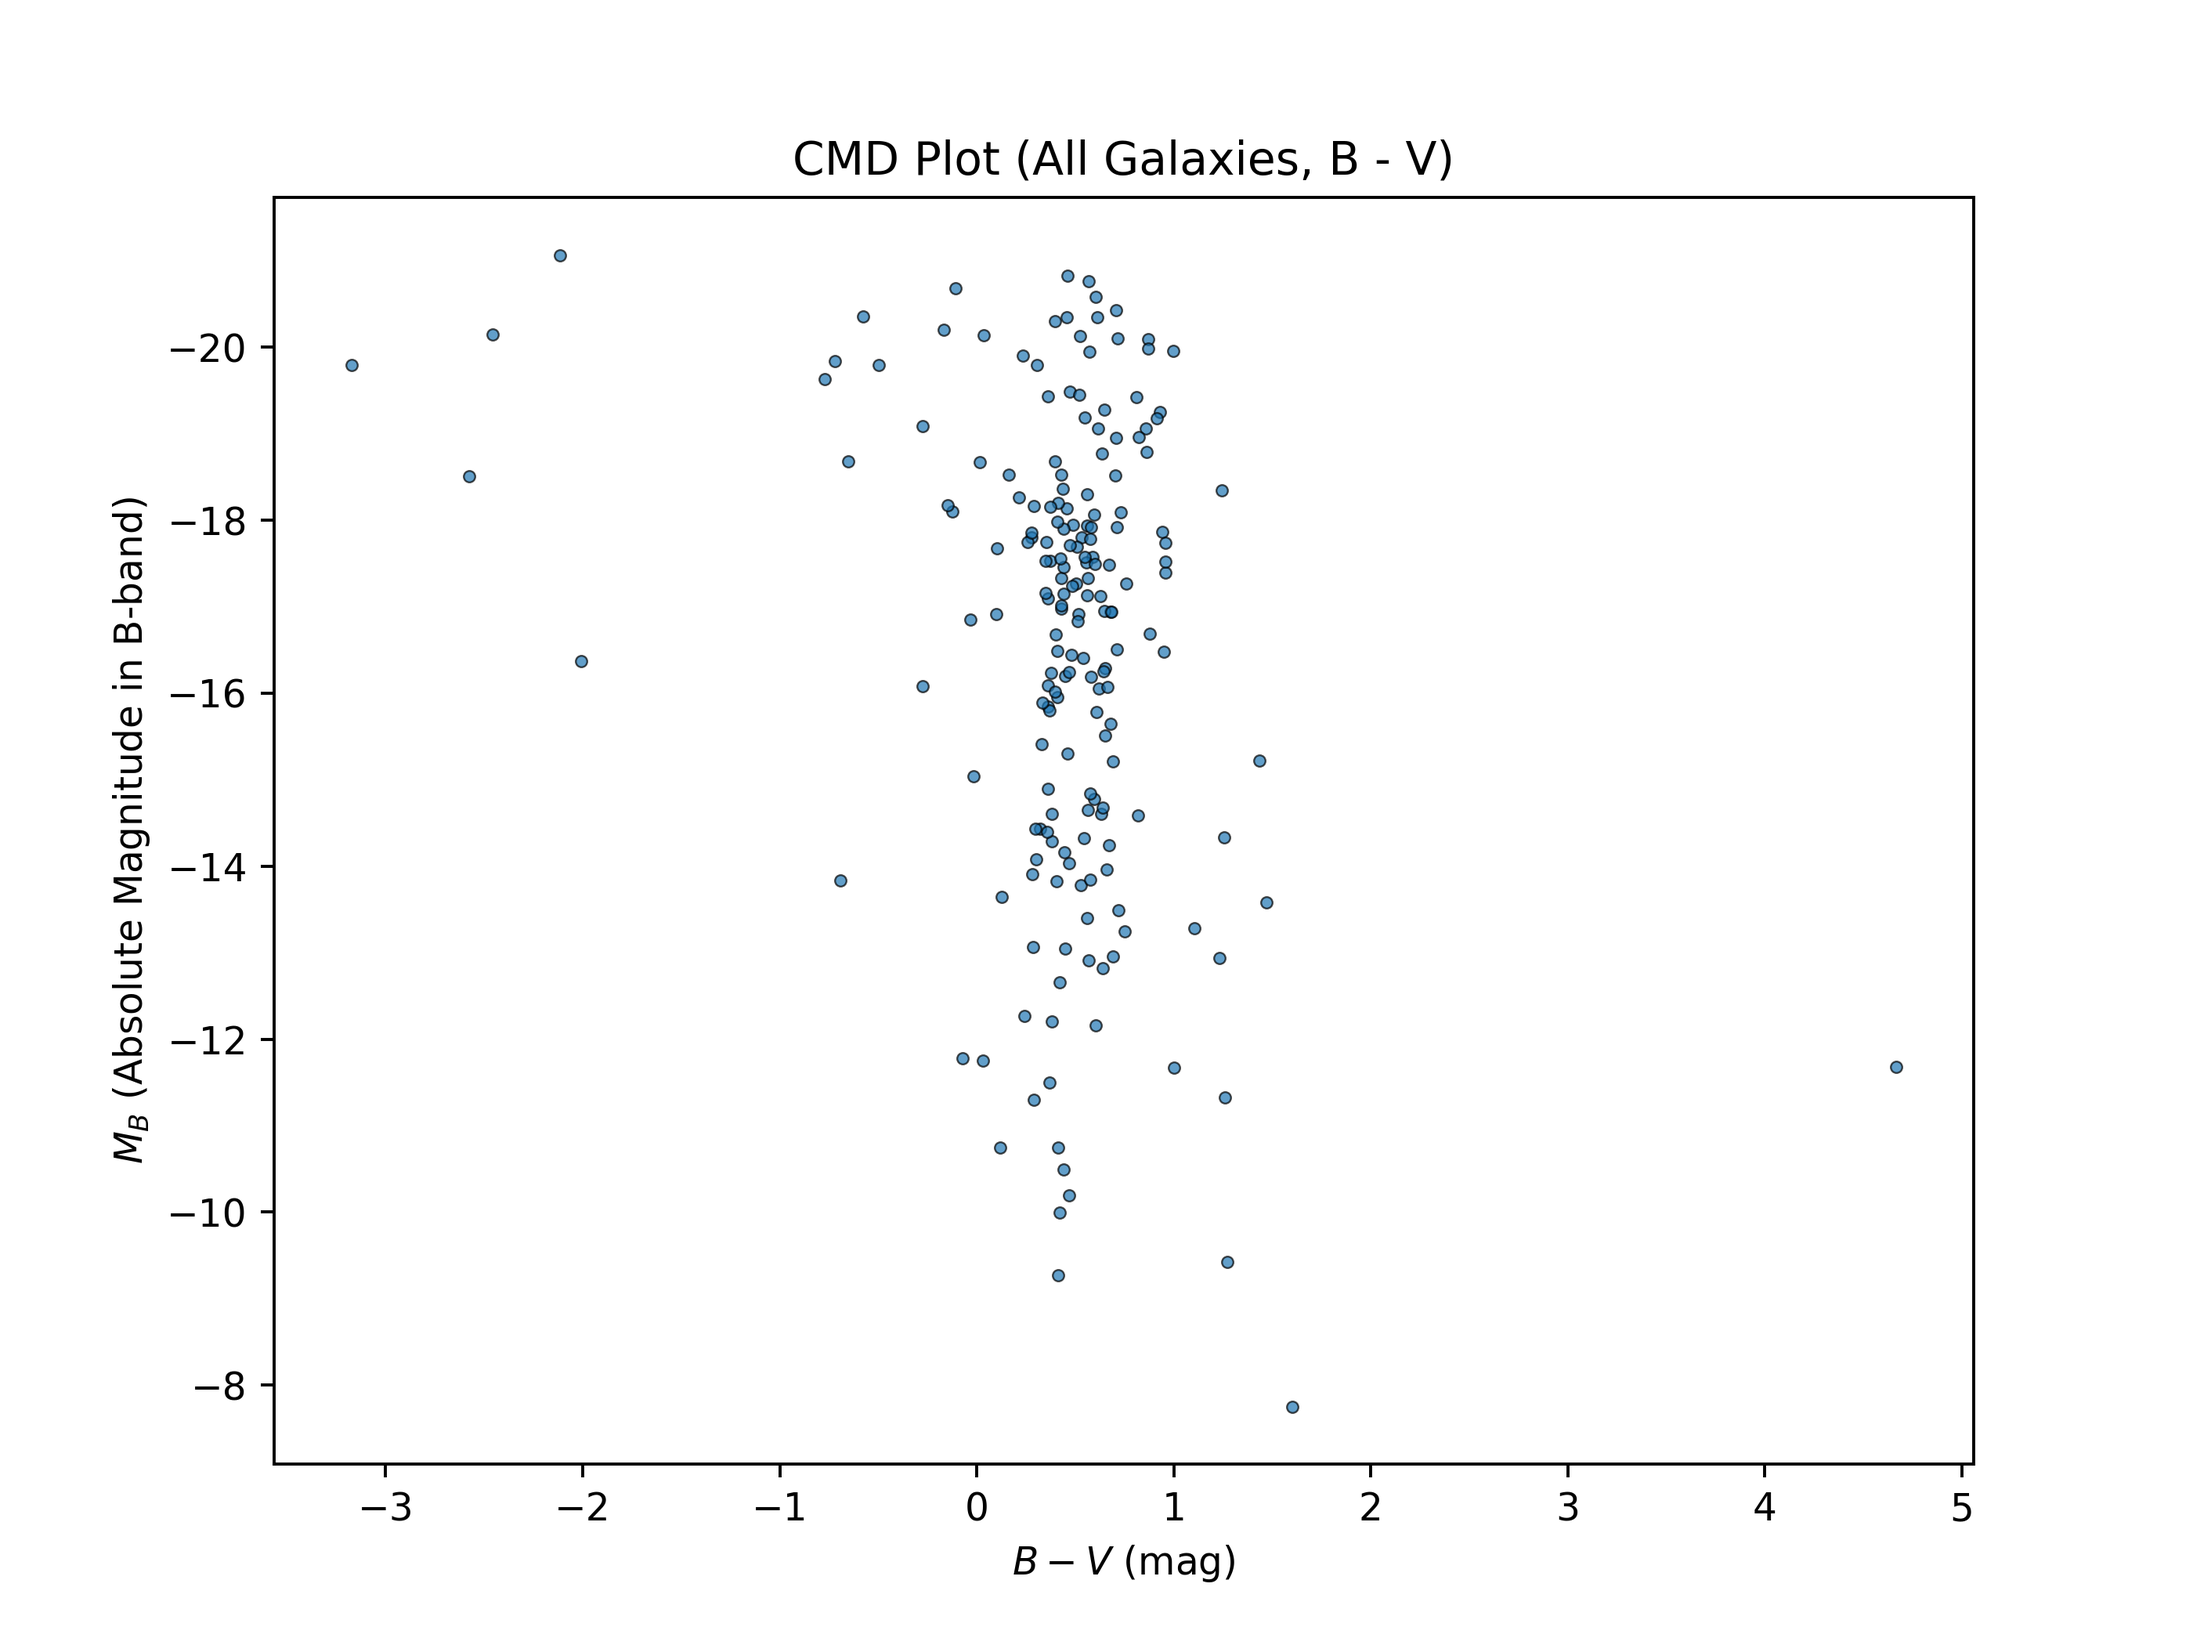
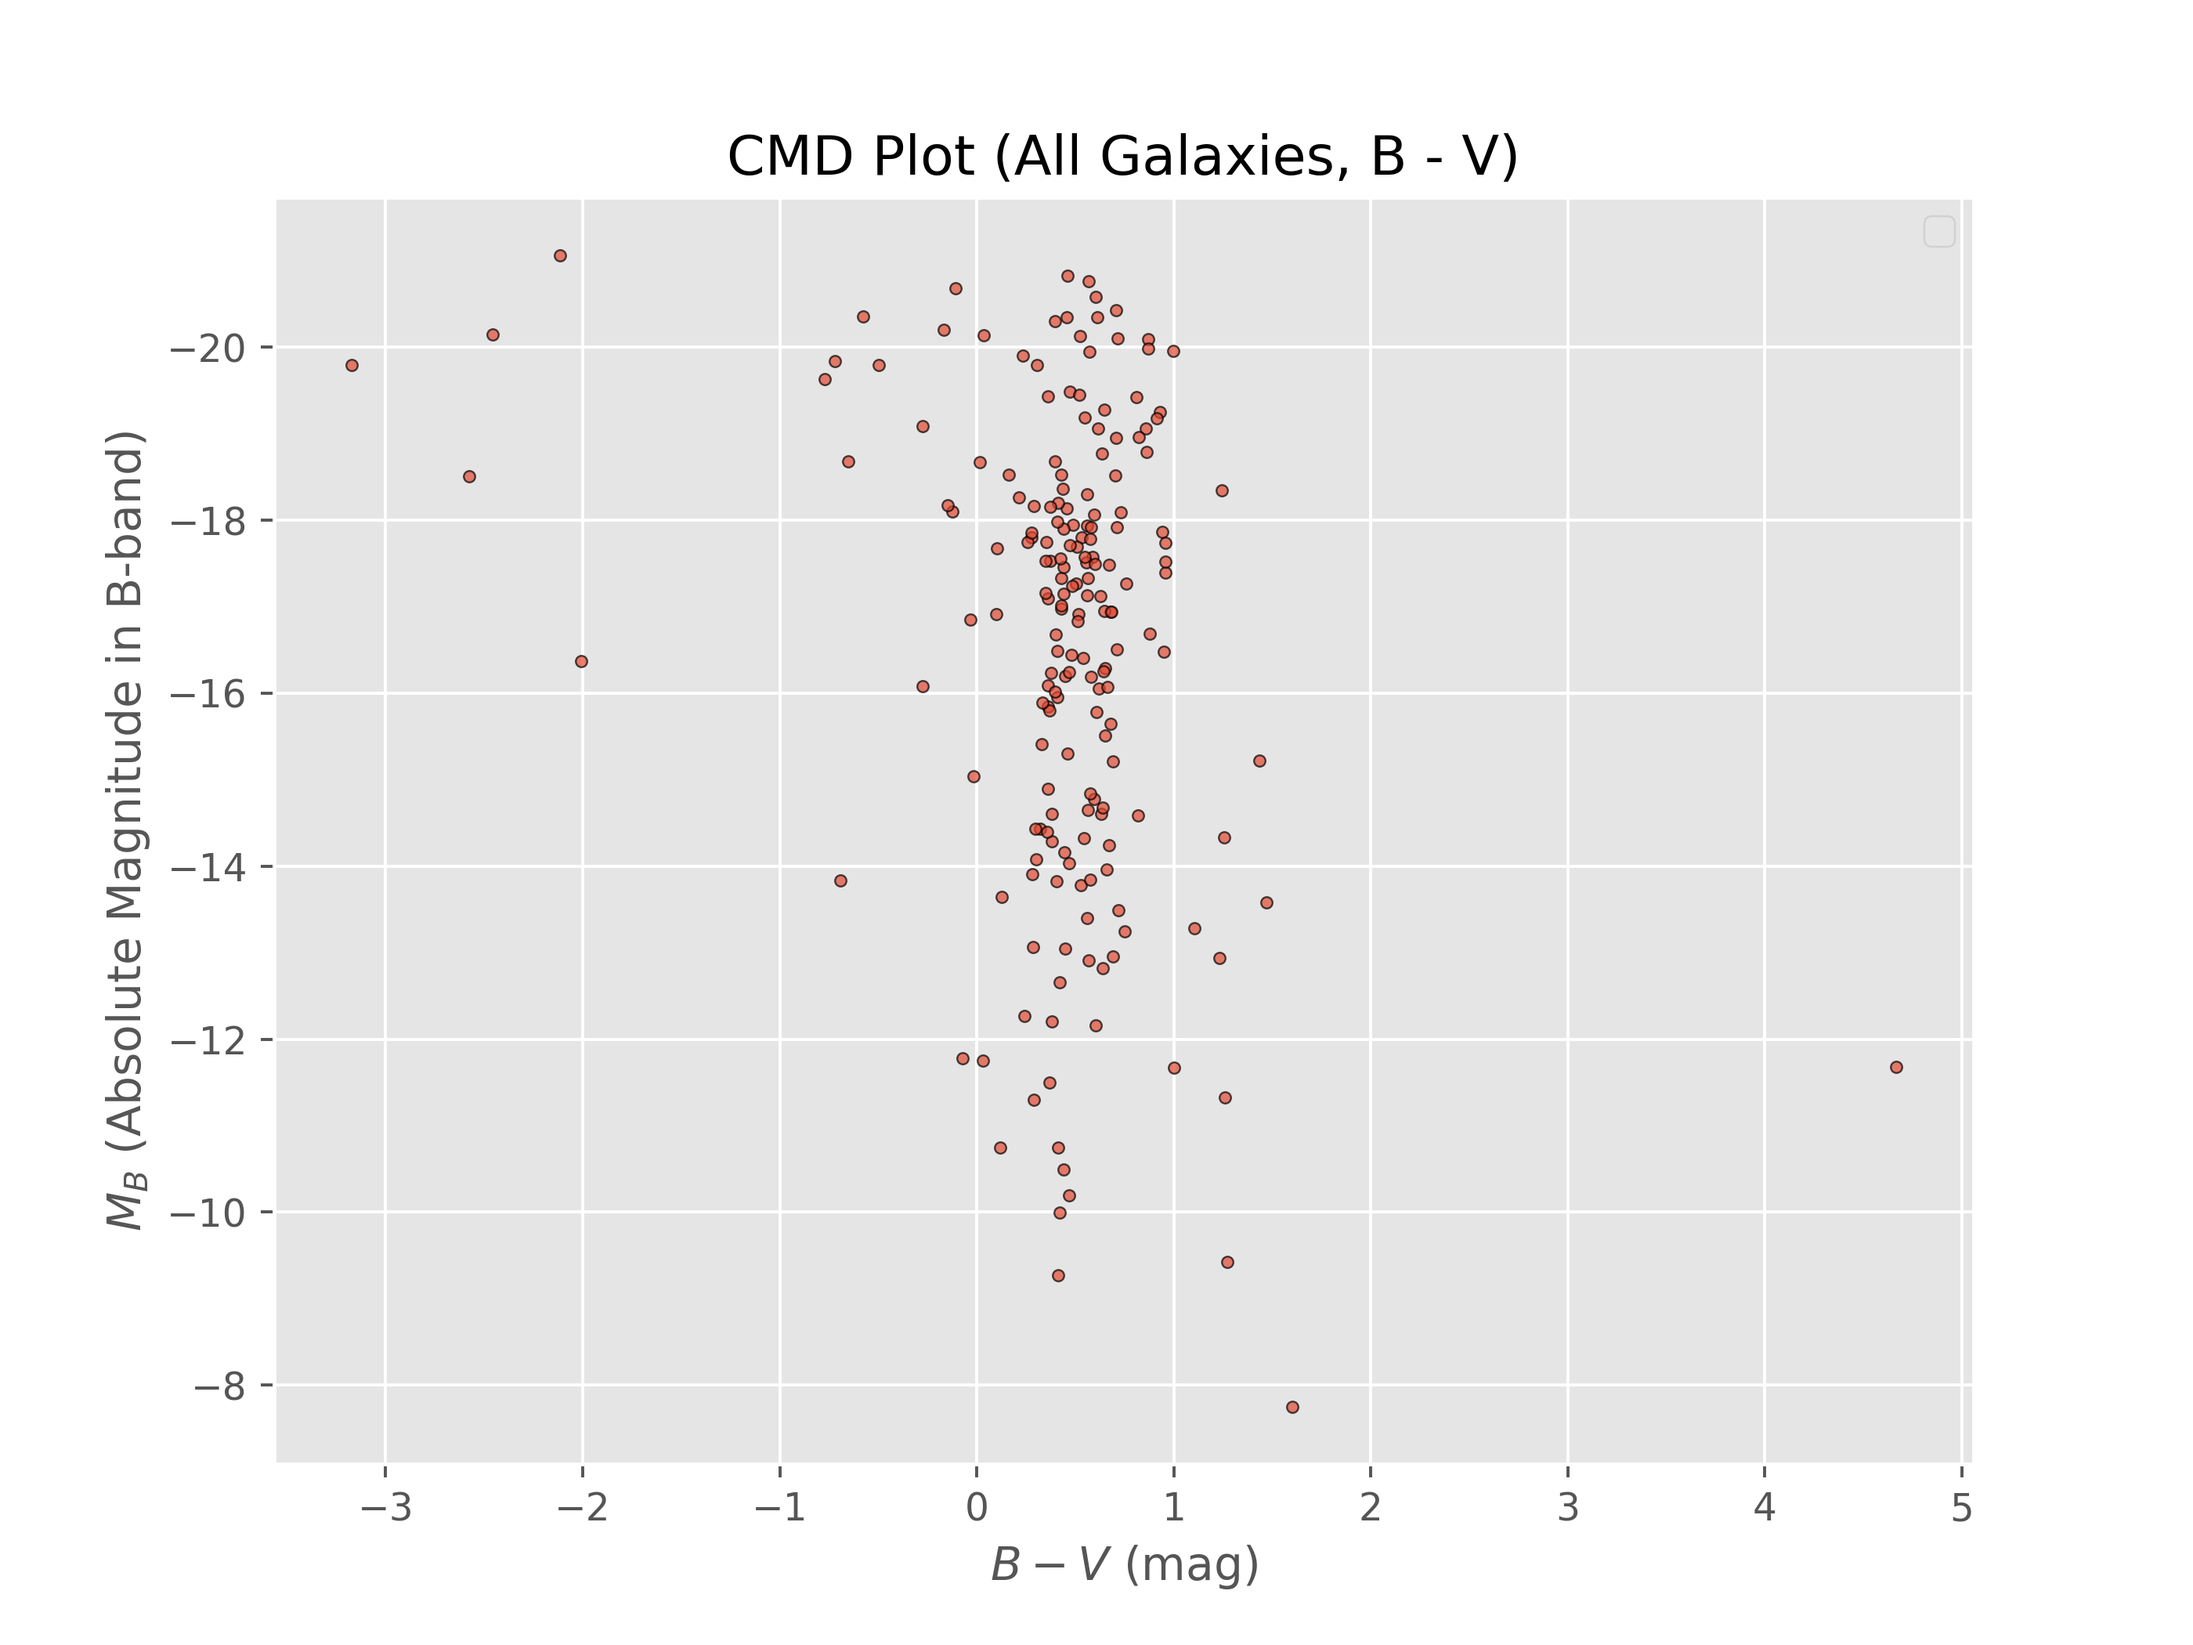
fixed labels

diff --git a/method_comparison/cmd_MS_plots.py b/method_comparison/cmd_MS_plots.py
@@ -15,6 +15,9 @@ for d in plot_dirs:
 # Load dataset
 df = pd.read_csv("joined_output_HECATE.csv")
 
+# set ggplot style
+plt.style.use('ggplot')
+
 # Define function to create and save CMD plots
 def plot_cmd(df, x_col, y_col, xlabel, ylabel, title, filename, folder, hue=None, cmap=False, invert_y=True, clabel = "Morphological Type"):
     plt.figure(figsize=(8, 6), dpi=350)
@@ -28,6 +31,10 @@ def plot_cmd(df, x_col, y_col, xlabel, ylabel, title, filename, folder, hue=None
         sns.scatterplot(data=df, x=x_col, y=y_col, edgecolor="k", alpha=0.7, marker=".")
     if invert_y:
         plt.gca().invert_yaxis()
+    #add grid
+    plt.grid(True)
+    #remove title from legend
+    plt.legend(title=None)
     plt.xlabel(xlabel)
     plt.ylabel(ylabel)
     plt.title(title)
@@ -41,35 +48,35 @@ xlabel_bu = r"$B - U$ (mag)"
 ylabel_mb = r"$M_B$ (Absolute Magnitude in B-band)"
 xlabel_bv = r"$B - V$ (mag)"
 ylabel_mb = r"$M_B$ (Absolute Magnitude in B-band)"
-xlabel_ms = r"$\log M_{\mathrm{total}}$ ($M_\odot$)"
-ylabel_ms = r"$\log \mathrm{SFR}_{\mathrm{total}}$ ($M_\odot$ yr$^{-1}$)"
+xlabel_ms = r"$\log M_{*}/M_\odot$"
+ylabel_ms = r"$\log (\mathrm{SFR}_{\mathrm{total}} /(M_\odot$ yr$^{-1}$))"
 
 # Categorize tau_up and tau_np for color coding
-df["tau_up_category"] = pd.cut(df["tau_up"], bins=[-float("inf"), 5, 10, float("inf")], labels=[r"$\tau_{up} < 5$ Gyr", r"$5 \leq \tau_{up} \leq 10$ Gyr", r"$\tau_{up} > 10$ Gyr"])
-df["tau_np_category"] = pd.cut(df["tau_np"], bins=[-float("inf"), 5, 10, float("inf")], labels=[r"$\tau_{np} < 5$ Gyr", r"$5 \leq \tau_{np} \leq 10$ Gyr", r"$\tau_{np} > 10$ Gyr"])
+df["tau_up_category"] = pd.cut(df["tau_up"], bins=[-float("inf"), 5, 10, float("inf")], labels=[r"$\tau < 5$ Gyr", r"$5 \leq \tau \leq 10$ Gyr", r"$\tau > 10$ Gyr"])
+df["tau_np_category"] = pd.cut(df["tau_np"], bins=[-float("inf"), 5, 10, float("inf")], labels=[r"$\tau < 5$ Gyr", r"$5 \leq \tau \leq 10$ Gyr", r"$\tau > 10$ Gyr"])
 
 # Generate and save CMD and main sequence plots
 plot_cmd(df, "gr", "MR", xlabel_gr, ylabel_mr, "CMD Plot (All Galaxies, g - r)", "cmd_all_gr.png", "gr_plots")
-plot_cmd(df, "gr", "MR", xlabel_gr, ylabel_mr, "CMD Plot Colored by $\\tau_{up}$ (Uniform Prior, $\\tau$ in Gyr)", "cmd_tau_up_gr.png", "gr_plots", "tau_up_category")
-plot_cmd(df, "gr", "MR", xlabel_gr, ylabel_mr, "CMD Plot Colored by $\\tau_{np}$ (Normal Prior, $\\tau$ in Gyr)", "cmd_tau_np_gr.png", "gr_plots", "tau_np_category")
+plot_cmd(df, "gr", "MR", xlabel_gr, ylabel_mr, "CMD Plot Colored by $\\tau$ (Uniform Prior, $\\tau$ in Gyr)", "cmd_tau_up_gr.png", "gr_plots", "tau_up_category")
+plot_cmd(df, "gr", "MR", xlabel_gr, ylabel_mr, "CMD Plot Colored by $\\tau$ (Normal Prior, $\\tau$ in Gyr)", "cmd_tau_np_gr.png", "gr_plots", "tau_np_category")
 plot_cmd(df, "gr", "MR", xlabel_gr, ylabel_mr, "CMD Plot Colored by Morphological Type", "cmd_morph_gr.png", "gr_plots", "merge_T", cmap=True)
 
 plot_cmd(df, "bu", "MB", xlabel_bu, ylabel_mb, "CMD Plot (All Galaxies, B - U)", "cmd_all_bu.png", "bu_plots")
-plot_cmd(df, "bu", "MB", xlabel_bu, ylabel_mb, "CMD Plot Colored by $\\tau_{up}$ (Uniform Prior, $\\tau$ in Gyr)", "cmd_tau_up_bu.png", "bu_plots", "tau_up_category")
-plot_cmd(df, "bu", "MB", xlabel_bu, ylabel_mb, "CMD Plot Colored by $\\tau_{np}$ (Normal Prior, $\\tau$ in Gyr)", "cmd_tau_np_bu.png", "bu_plots", "tau_np_category")
+plot_cmd(df, "bu", "MB", xlabel_bu, ylabel_mb, "CMD Plot Colored by $\\tau$ (Uniform Prior, $\\tau$ in Gyr)", "cmd_tau_up_bu.png", "bu_plots", "tau_up_category")
+plot_cmd(df, "bu", "MB", xlabel_bu, ylabel_mb, "CMD Plot Colored by $\\tau$ (Normal Prior, $\\tau$ in Gyr)", "cmd_tau_np_bu.png", "bu_plots", "tau_np_category")
 plot_cmd(df, "bu", "MB", xlabel_bu, ylabel_mb, "CMD Plot Colored by Morphological Type", "cmd_morph_bu.png", "bu_plots", "merge_T", cmap=True)
 
 plot_cmd(df, "bv", "MB", xlabel_bv, ylabel_mb, "CMD Plot (All Galaxies, B - V)", "cmd_all_bv.png", "bv_plots")
-plot_cmd(df, "bv", "MB", xlabel_bv, ylabel_mb, "CMD Plot Colored by $\\tau_{up}$ (Uniform Prior, $\\tau$ in Gyr)", "cmd_tau_up_bv.png", "bv_plots", "tau_up_category")
-plot_cmd(df, "bv", "MB", xlabel_bv, ylabel_mb, "CMD Plot Colored by $\\tau_{np}$ (Normal Prior, $\\tau$ in Gyr)", "cmd_tau_np_bv.png", "bv_plots", "tau_np_category")
+plot_cmd(df, "bv", "MB", xlabel_bv, ylabel_mb, "CMD Plot Colored by $\\tau$ (Uniform Prior, $\\tau$ in Gyr)", "cmd_tau_up_bv.png", "bv_plots", "tau_up_category")
+plot_cmd(df, "bv", "MB", xlabel_bv, ylabel_mb, "CMD Plot Colored by $\\tau$ (Normal Prior, $\\tau$ in Gyr)", "cmd_tau_np_bv.png", "bv_plots", "tau_np_category")
 plot_cmd(df, "bv", "MB", xlabel_bv, ylabel_mb, "CMD Plot Colored by Morphological Type", "cmd_morph_bv.png", "bv_plots", "merge_T", cmap=True)
 
 plot_cmd(df, "logM_total", "logSFR_total", xlabel_ms, ylabel_ms, "Main Sequence Plot", "ms_plot.png", "ms_plots", invert_y=False)
-plot_cmd(df, "logM_total", "logSFR_total", xlabel_ms, ylabel_ms, "Main Sequence Colored by $\\tau_{up}$ (Uniform Prior, $\\tau$ in Gyr)", "ms_tau_up.png", "ms_plots", "tau_up_category", invert_y=False)
-plot_cmd(df, "logM_total", "logSFR_total", xlabel_ms, ylabel_ms, "Main Sequence Colored by $\\tau_{np}$ (Normal Prior, $\\tau$ in Gyr)", "ms_tau_np.png", "ms_plots", "tau_np_category", invert_y=False)
+plot_cmd(df, "logM_total", "logSFR_total", xlabel_ms, ylabel_ms, "Main Sequence Colored by $\\tau$ (Uniform Prior, $\\tau$ in Gyr)", "ms_tau_up.png", "ms_plots", "tau_up_category", invert_y=False)
+plot_cmd(df, "logM_total", "logSFR_total", xlabel_ms, ylabel_ms, "Main Sequence Colored by $\\tau$ (Normal Prior, $\\tau$ in Gyr)", "ms_tau_np.png", "ms_plots", "tau_np_category", invert_y=False)
 plot_cmd(df, "logM_total", "logSFR_total", xlabel_ms, ylabel_ms, "Main Sequence Colored by Morphological Type", "ms_morph.png", "ms_plots", "merge_T", cmap=True, invert_y=False)
-plot_cmd(df, "logM_total", "logSFR_total", xlabel_ms, ylabel_ms, "Main Sequence Colored by Specific SFR", "ms_sSFR.png", "ms_plots", "logsSFR", cmap=True, invert_y=False, clabel=r"log(sSFR yr)")
-plot_cmd(df, "logM_total", "logSFR_total", xlabel_ms, ylabel_ms, "Main Sequence Colored by $t_{sf, np}$", "ms_tsf_np.png", "ms_plots", "t_sf_np", cmap=True, invert_y=False,clabel=r"$t_{sf}$ (Gyr)")
-plot_cmd(df, "logM_total", "logSFR_total", xlabel_ms, ylabel_ms, "Main Sequence Colored by $t_{sf, up}$", "ms_tsf_up.png", "ms_plots", "t_sf_up", cmap=True, invert_y=False,clabel=r"$t_{sf}$ (Gyr)")
+plot_cmd(df, "logM_total", "logSFR_total", xlabel_ms, ylabel_ms, "Main Sequence Colored by Specific SFR", "ms_sSFR.png", "ms_plots", "logsSFR", cmap=True, invert_y=False, clabel=r"log(sSFR $\cdot$ yr)")
+plot_cmd(df, "logM_total", "logSFR_total", xlabel_ms, ylabel_ms, "Main Sequence Colored by $t_{sf}$ (Normal Prior, $t_{sf}$ in Gyr)", "ms_tsf_np.png", "ms_plots", "t_sf_np", cmap=True, invert_y=False,clabel=r"$t_{sf}$ (Gyr)")
+plot_cmd(df, "logM_total", "logSFR_total", xlabel_ms, ylabel_ms, "Main Sequence Colored by $t_{sf}$ (Uniform Prior, $t_{sf}$ in Gyr)", "ms_tsf_up.png", "ms_plots", "t_sf_up", cmap=True, invert_y=False,clabel=r"$t_{sf}$ (Gyr)")
 
 print("Plots saved in respective folders.")
